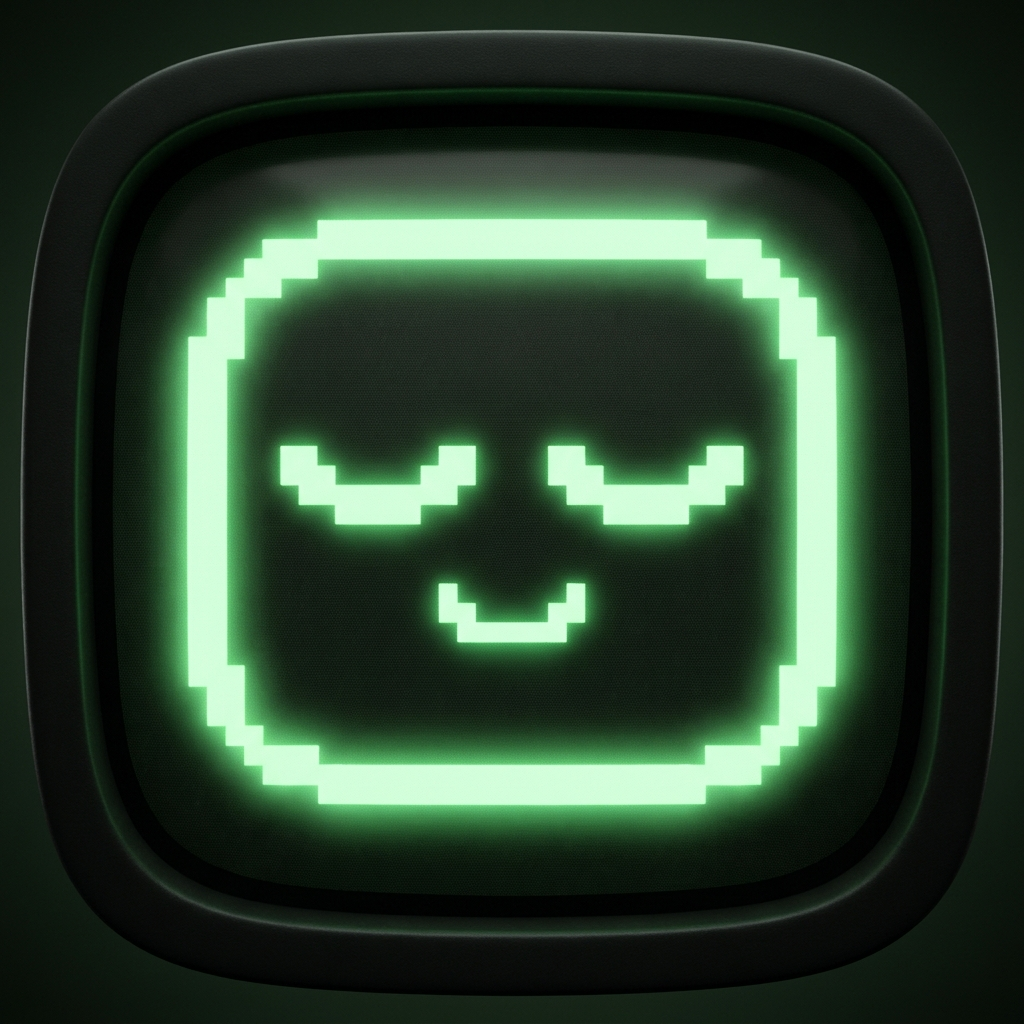
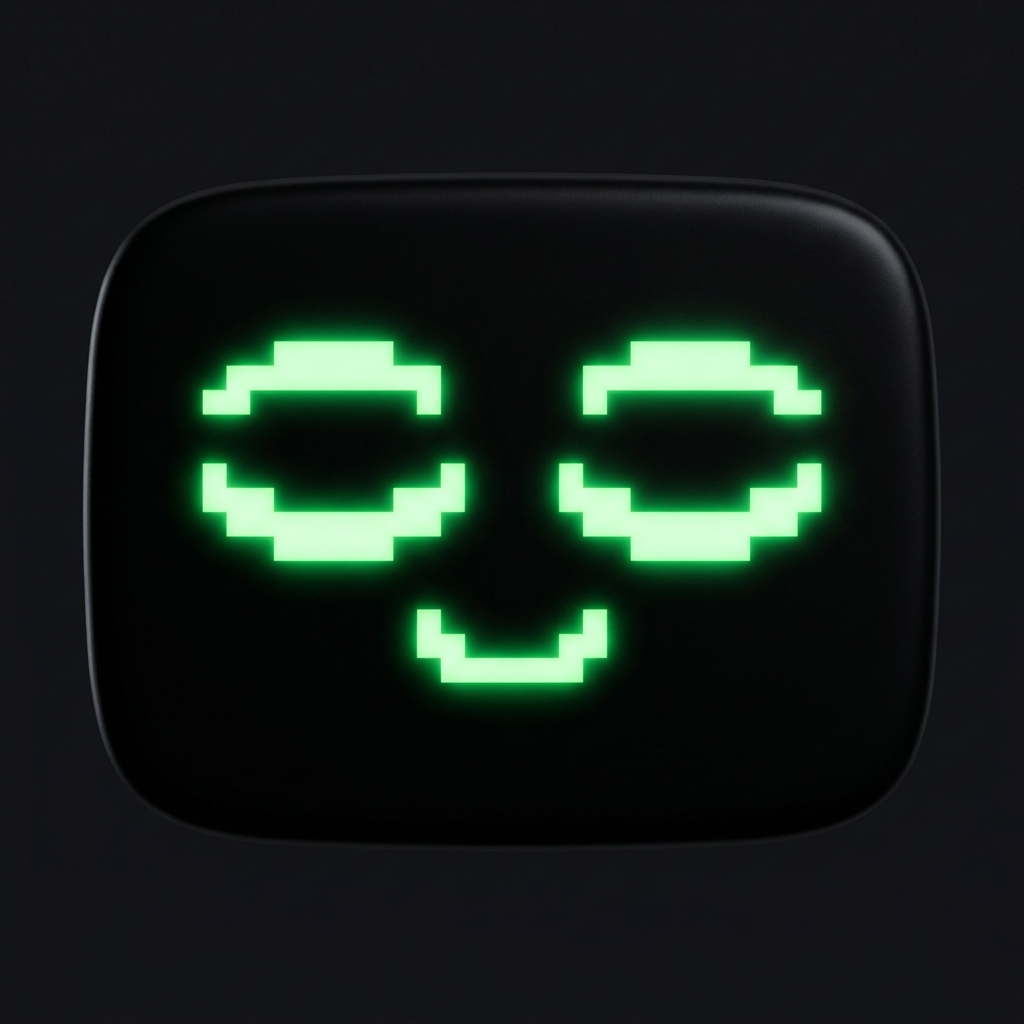
Normalize expression sprites into an engine-ready sheet (Phase 3a statics done)
- tools/normalize_face_sprites.py: detects the green-glow glyphs per sprite via
  relative channel dominance (G exceeding R/B — not absolute brightness, so
  lowBattery's intentional dimness survives), crops to the glyph bounding box,
  masks away bezel reflections, scales to a uniform content box, and composites
  centered on pure black (the faceplate is a black screen, so black is the
  correct paintable base).
- Regenerated the relieved sprite without its off-design border ring (verified
  visually before accepting).
- Outputs: normalized/<name>.png (10 uniform 512px cells named by BitExpression
  value), knitbit_face_sheet.png (5x2, 2560x1024), knitbit_face_sheet.json
  (name -> pixel rect manifest), and a labeled contact sheet for review.
- Validated: manifest frame names match the BitExpression enum 1:1, rects in
  bounds, all cells 512x512; contact sheet confirms consistent framing and
  preserved dimness on lowBattery.

Remaining Phase 3a work (transitions, idle loop, talk-cycle, game wiring) is
listed in the README and stays gated on review.

Claude-Session: https://claude.ai/code/session_01Uyv6rjM3xMi8jEKQttF1cr

diff --git a/tools/normalize_face_sprites.py b/tools/normalize_face_sprites.py
@@ -1,0 +1,184 @@
+#!/usr/bin/env python3
+"""
+normalize_face_sprites.py — Turn the raw generated expression sprites into an
+engine-ready, uniformly-framed set + packed sprite sheet (Phase 3a).
+
+WHY THIS EXISTS
+    The 10 expression sprites in assets/2d/knitbit_face/ were generated
+    individually and vary in faceplate framing/zoom (some faces fill the frame,
+    some sit small inside a rendered bezel). Engines want uniform cells: same
+    canvas, same content scale, consistent centering, clean black background
+    (the faceplate is a black screen, so black — not transparency — is the
+    correct paintable base for the faceplate UV).
+
+WHAT IT DOES
+    For each expression_<name>.png:
+      1. Detect the glowing face glyphs: pixels where the green channel
+         dominates red/blue by a RELATIVE margin (not absolute brightness —
+         lowBattery is intentionally dim and must stay dim).
+      2. Crop to the glyphs' bounding box + margin.
+      3. Scale to fit a uniform content box (preserving aspect) and composite
+         centered on a pure-black square cell.
+    Then packs all cells into a 5x2 sprite sheet + JSON manifest mapping each
+    BitExpression enum value to its pixel rect.
+
+OUTPUT
+    assets/2d/knitbit_face/normalized/<name>.png          (one 512px cell each)
+    assets/2d/knitbit_face/knitbit_face_sheet.png         (2560x1024, 5x2 grid)
+    assets/2d/knitbit_face/knitbit_face_sheet.json        (manifest)
+    assets/2d/knitbit_face/normalized_contact_sheet.png   (labeled review montage)
+
+RUN
+    python3 tools/normalize_face_sprites.py
+"""
+
+import json
+import os
+
+from PIL import Image, ImageDraw
+
+CELL = 512               # output cell size (square)
+CONTENT_FRAC = 0.78      # face glyphs are scaled to fit this fraction of the cell
+GREEN_DOMINANCE = 30     # G must exceed max(R, B) by this much to count as glyph
+MIN_GREEN = 24           # ...and be at least this bright (rejects near-black noise)
+GRID_COLS, GRID_ROWS = 5, 2
+
+# order defines sheet layout; names match BitExpression enum values in
+# game/lib/characters/bit_character.dart (file names use snake_case)
+EXPRESSIONS = [
+    ("idle", "expression_idle.png"),
+    ("happy", "expression_happy.png"),
+    ("thinking", "expression_thinking.png"),
+    ("scared", "expression_scared.png"),
+    ("effort", "expression_effort.png"),
+    ("starEyes", "expression_star_eyes.png"),
+    ("confused", "expression_confused.png"),
+    ("lowBattery", "expression_low_battery.png"),
+    ("startled", "expression_startled.png"),
+    ("relieved", "expression_relieved.png"),
+]
+
+
+def _repo_root():
+    here = os.path.dirname(os.path.abspath(__file__))
+    return os.path.dirname(here)
+
+
+FACE_DIR = os.path.join(_repo_root(), "assets/2d/knitbit_face")
+OUT_DIR = os.path.join(FACE_DIR, "normalized")
+SHEET_PNG = os.path.join(FACE_DIR, "knitbit_face_sheet.png")
+SHEET_JSON = os.path.join(FACE_DIR, "knitbit_face_sheet.json")
+CONTACT = os.path.join(FACE_DIR, "normalized_contact_sheet.png")
+
+
+def glyph_bbox(img):
+    """Bounding box of green-glow glyph pixels (relative dominance test)."""
+    rgb = img.convert("RGB")
+    w, h = rgb.size
+    px = rgb.load()
+    minx, miny, maxx, maxy = w, h, -1, -1
+    for y in range(h):
+        for x in range(w):
+            r, g, b = px[x, y]
+            if g >= MIN_GREEN and g - max(r, b) >= GREEN_DOMINANCE:
+                if x < minx: minx = x
+                if x > maxx: maxx = x
+                if y < miny: miny = y
+                if y > maxy: maxy = y
+    if maxx < 0:
+        return None
+    return (minx, miny, maxx + 1, maxy + 1)
+
+
+def glow_mask_composite(img, bbox):
+    """Crop the glyph region and composite onto pure black, keeping only the
+    green glow (kills bezel reflections/backgrounds inside the crop). The glow
+    halo around glyphs is dimmer than the dominance threshold, so the mask is
+    built from a soft variant: keep any pixel where green exceeds red/blue at
+    all, weighted by how much."""
+    rgb = img.convert("RGB").crop(bbox)
+    w, h = rgb.size
+    src = rgb.load()
+    out = Image.new("RGB", (w, h), (0, 0, 0))
+    dst = out.load()
+    for y in range(h):
+        for x in range(w):
+            r, g, b = src[x, y]
+            excess = g - max(r, b)
+            if excess > 0 and g >= 8:
+                # keep the pixel; soft-scale very weak excess so halo fades out
+                k = min(1.0, excess / 40.0)
+                dst[x, y] = (int(r * k), int(g * k) if k < 1.0 else g, int(b * k))
+    return out
+
+
+def normalize(src_path):
+    img = Image.open(src_path)
+    bbox = glyph_bbox(img)
+    if bbox is None:
+        raise SystemExit(f"[normalize] no glyphs detected in {src_path}")
+    # margin: 4% of the glyph box's larger side
+    m = int(0.04 * max(bbox[2] - bbox[0], bbox[3] - bbox[1]))
+    bbox = (max(0, bbox[0] - m), max(0, bbox[1] - m),
+            min(img.width, bbox[2] + m), min(img.height, bbox[3] + m))
+    content = glow_mask_composite(img, bbox)
+
+    target = int(CELL * CONTENT_FRAC)
+    scale = target / max(content.size)
+    new_size = (max(1, round(content.width * scale)),
+                max(1, round(content.height * scale)))
+    content = content.resize(new_size, Image.LANCZOS)
+
+    cell = Image.new("RGB", (CELL, CELL), (0, 0, 0))
+    cell.paste(content, ((CELL - content.width) // 2, (CELL - content.height) // 2))
+    return cell
+
+
+def main():
+    os.makedirs(OUT_DIR, exist_ok=True)
+    cells = {}
+    for name, fname in EXPRESSIONS:
+        src = os.path.join(FACE_DIR, fname)
+        cell = normalize(src)
+        out = os.path.join(OUT_DIR, f"{name}.png")
+        cell.save(out)
+        cells[name] = cell
+        print(f"[normalize] {name}: {fname} -> normalized/{name}.png")
+
+    # sprite sheet + manifest
+    sheet = Image.new("RGB", (GRID_COLS * CELL, GRID_ROWS * CELL), (0, 0, 0))
+    manifest = {
+        "sheet": os.path.basename(SHEET_PNG),
+        "cell_size": CELL,
+        "grid": {"cols": GRID_COLS, "rows": GRID_ROWS},
+        "enum": "BitExpression (game/lib/characters/bit_character.dart)",
+        "frames": {},
+    }
+    for i, (name, _) in enumerate(EXPRESSIONS):
+        col, row = i % GRID_COLS, i // GRID_COLS
+        x, y = col * CELL, row * CELL
+        sheet.paste(cells[name], (x, y))
+        manifest["frames"][name] = {"x": x, "y": y, "w": CELL, "h": CELL,
+                                    "col": col, "row": row}
+    sheet.save(SHEET_PNG)
+    with open(SHEET_JSON, "w") as f:
+        json.dump(manifest, f, indent=2)
+    print(f"[normalize] sheet: {SHEET_PNG} ({sheet.width}x{sheet.height})")
+    print(f"[normalize] manifest: {SHEET_JSON}")
+
+    # labeled contact sheet for review
+    label_h = 40
+    contact = Image.new("RGB", (GRID_COLS * CELL, GRID_ROWS * (CELL + label_h)),
+                        (24, 24, 24))
+    draw = ImageDraw.Draw(contact)
+    for i, (name, _) in enumerate(EXPRESSIONS):
+        col, row = i % GRID_COLS, i // GRID_COLS
+        x, y = col * CELL, row * (CELL + label_h)
+        contact.paste(cells[name], (x, y))
+        draw.text((x + 12, y + CELL + 10), name, fill=(180, 255, 180))
+    contact.save(CONTACT)
+    print(f"[normalize] contact sheet: {CONTACT}")
+
+
+if __name__ == "__main__":
+    main()

diff --git a/assets/2d/knitbit_face/README.md b/assets/2d/knitbit_face/README.md
@@ -29,12 +29,27 @@ style on black. These are review-resolution source images — for engine use the
 cropping to the screen area, background removal/normalization, and downscaling to a
 consistent sprite sheet (deliberately deferred until the style is approved).
 
-Known minor deviations from the enum's drawn designs (flag for the sprite-sheet
-normalization pass): `expression_relieved.png` added a decorative rounded-square border
-ring not present in the in-game design; `expression_effort.png`'s squint reads as angled
-blocks rather than flat horizontal bars; faceplate framing/zoom varies noticeably across
-the set (some fill the frame, some sit small in it) — normalization will crop all to a
-consistent screen region.
+Known minor deviations from the enum's drawn designs — **resolved by the normalization
+pass**: `expression_relieved.png` was regenerated without its off-design border ring;
+the framing/zoom variance is eliminated by glyph-detection cropping (below).
+(`expression_effort.png`'s angled-block squint remains as a minor stylistic take — kept.)
+
+## Engine-ready normalized set ✅
+
+Produced by `tools/normalize_face_sprites.py` (pure PIL — detects the green-glow glyphs
+via relative channel dominance so `lowBattery`'s intentional dimness survives, crops to
+the glyph bounding box, masks away bezel reflections, scales to a uniform content box,
+composites centered on pure black — the faceplate is a black screen, so black is the
+correct paintable base):
+
+| Path | What |
+| --- | --- |
+| `normalized/<name>.png` | One 512×512 cell per expression, named by `BitExpression` value |
+| `knitbit_face_sheet.png` | Packed 5×2 sprite sheet (2560×1024) |
+| `knitbit_face_sheet.json` | Manifest: expression name → pixel rect / grid cell |
+| `normalized_contact_sheet.png` | Labeled review montage of all 10 cells |
+
+Re-run any time a source sprite changes: `python3 tools/normalize_face_sprites.py`
 
 ## Expression list decision (resolved by default)
 
@@ -63,8 +78,9 @@ expressions), they can be added with the same prompt template.
 
 1. ~~Decide the authoritative expression list~~ ✅ resolved: 10-value enum (see above).
 2. ~~Generate the remaining expressions~~ ✅ all 10 generated.
-3. Normalize into an engine-ready sprite sheet (consistent crop/size/alpha — also fixes
-   the framing variance and the `relieved` border-ring deviation noted above).
+3. ~~Normalize into an engine-ready sprite sheet~~ ✅ done (see normalized set above).
 4. Build transitions: crossfade first; micro-animation strips only for a few signature
    expressions per theme later.
 5. Idle loop (blink/scanline shimmer) + audio-amplitude-driven talk-cycle strip.
+6. Wire the sheet into the game (`bit_character.dart`: swap the procedural `_draw*Face`
+   painting for sprite rendering from `knitbit_face_sheet.png` + manifest) — its own pass.